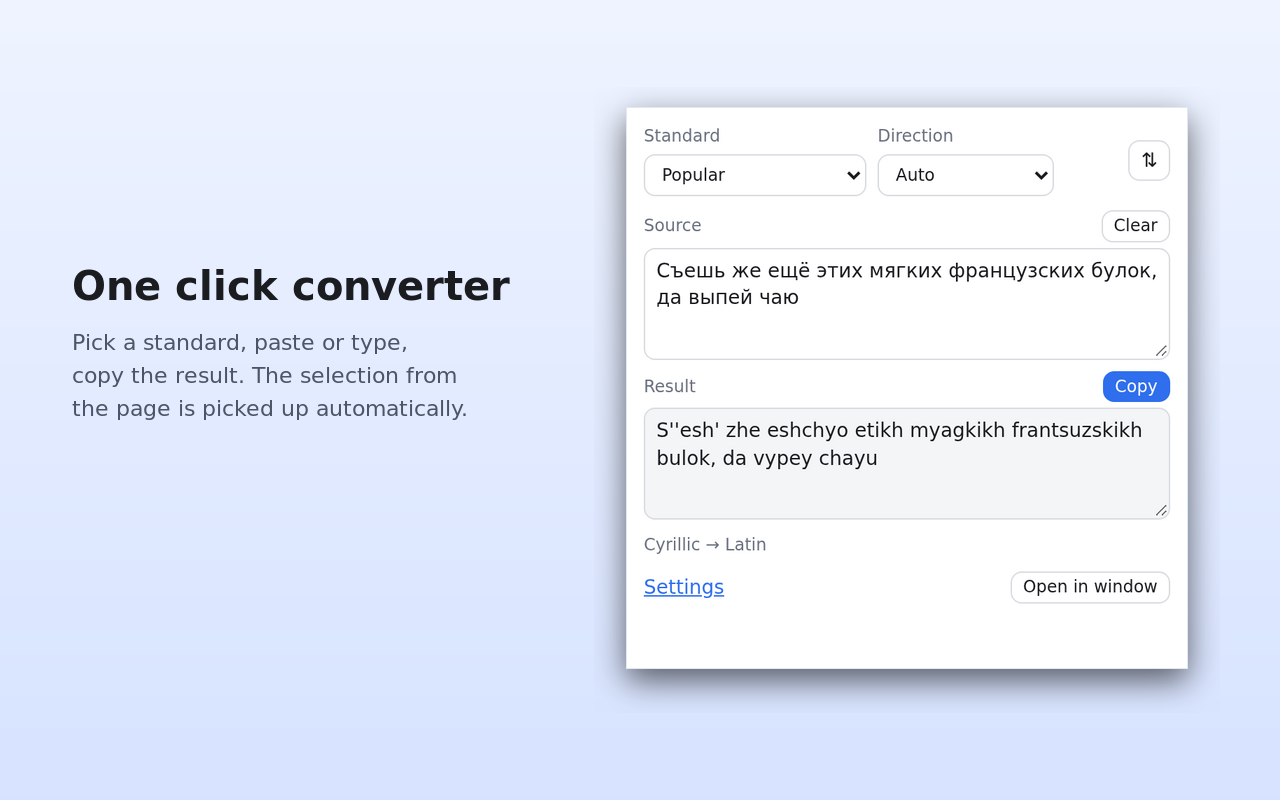
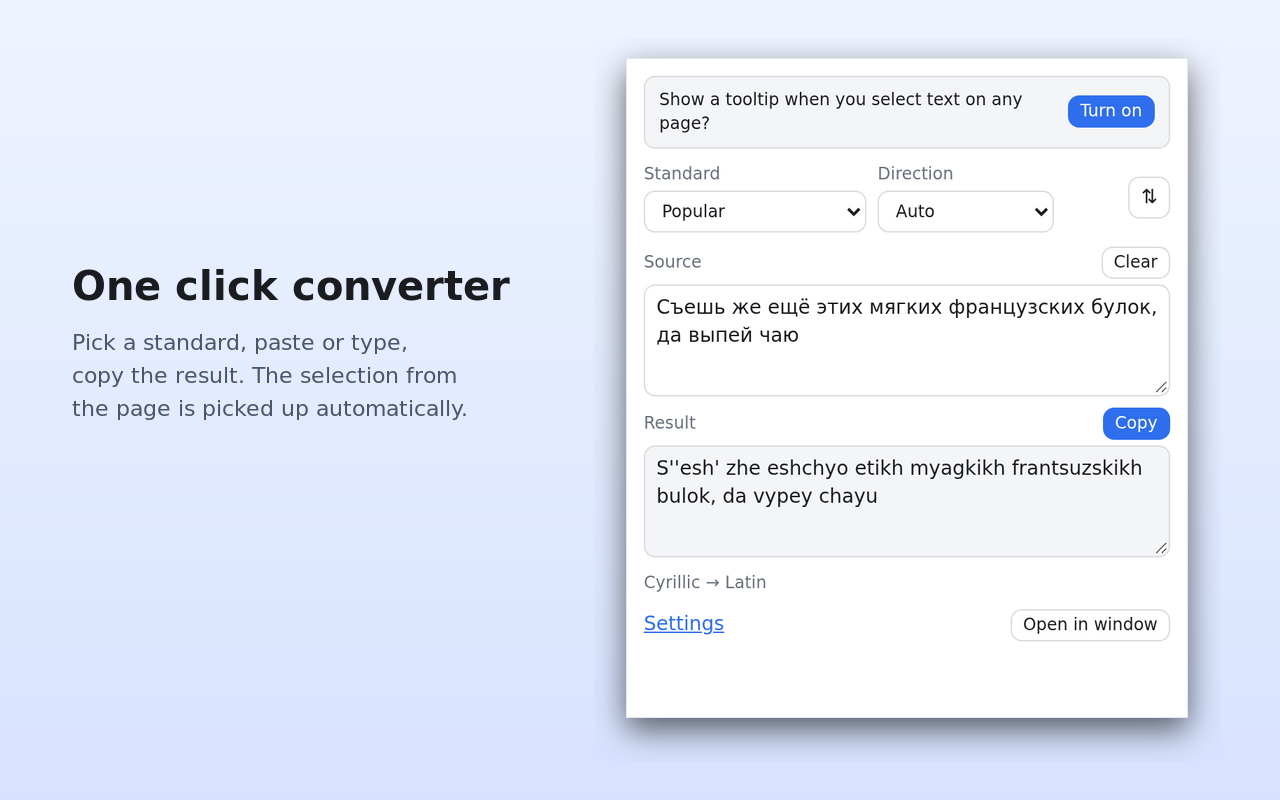
Regenerate store screenshots for the opt-in tooltip and wait for page readiness in scripts

diff --git a/src/shared/converter.ts b/src/shared/converter.ts
@@ -156,10 +156,7 @@ export async function mountConverter(root: HTMLElement, options: ConverterOption
   if (options.showTooltipBanner) {
     const bannerEl = root.querySelector<HTMLDivElement>('#tooltip-banner')!;
     const enableEl = root.querySelector<HTMLButtonElement>('#enable-tooltip')!;
-    const refreshBanner = async () => {
-      bannerEl.hidden = settings.tooltipEnabled && (await hasPageAccess());
-    };
-    void refreshBanner();
+    bannerEl.hidden = settings.tooltipEnabled && (await hasPageAccess());
     enableEl.addEventListener('click', async () => {
       enableEl.disabled = true;
       try {
@@ -185,6 +182,7 @@ export async function mountConverter(root: HTMLElement, options: ConverterOption
   });
 
   update();
+  document.documentElement.dataset.ready = 'true';
 
   return {
     setSource(text) {

diff --git a/src/entrypoints/options/main.ts b/src/entrypoints/options/main.ts
@@ -77,6 +77,7 @@ async function main(): Promise<void> {
   });
   ignoreEl.addEventListener('change', () => save({ ignoreInputs: ignoreEl.checked }));
   themeEl.addEventListener('change', () => save({ theme: themeEl.value as Theme }));
+  document.documentElement.dataset.ready = 'true';
 }
 
 void main();
